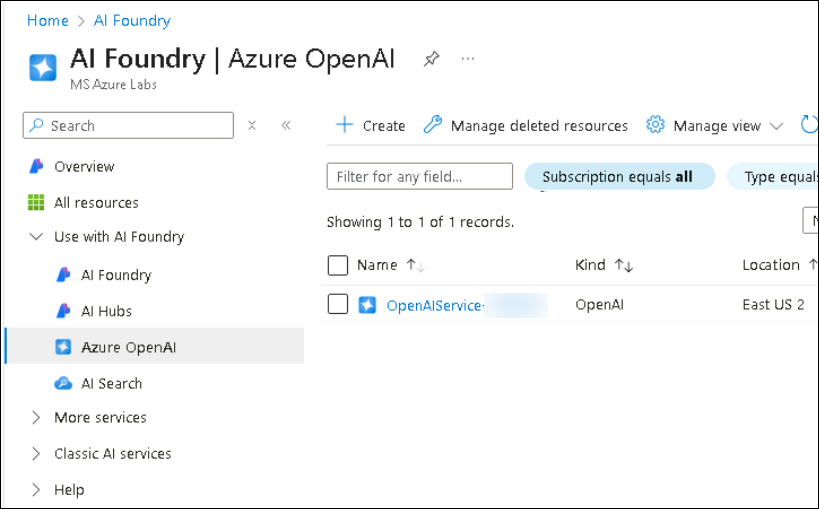
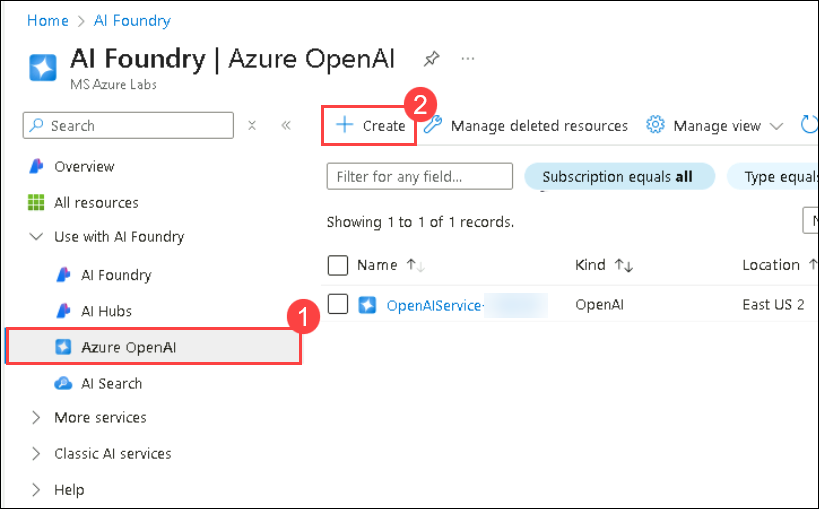
Update

Changed region(s): [[0.0, 0.5894, 0.3968, 0.7367], [0.3663, 0.1473, 0.5495, 0.2947]]

diff --git a/Instructions/Labs/prompt-eng-2.md b/Instructions/Labs/prompt-eng-2.md
@@ -26,9 +26,9 @@ In this task, you'll create an Azure resource in the Azure portal, selecting the
 
    ![](../media/17-12-24(1).png)
 
-2. On **Azure AI services | Azure OpenAI** blade, click on **+ Create**.
+2. On **AI Foundry | Azure OpenAI** blade, click on **+ Create**.
 
-   ![](../media/create-openai.png)
+   ![](../media/lab-03upd1.png)
 
 3. Create an **Azure OpenAI** resource with the following settings 
 
@@ -78,7 +78,7 @@ In this task, you'll deploy a specific AI model instance within your Azure OpenA
 
    ![](../media/17-12-24(1).png)
 
-2. On **Azure AI services | Azure OpenAI** blade, select **OpenAI-Lab03-<inject key="Deployment-ID" enableCopy="false"></inject>**
+2. On **AI Foundry | Azure OpenAI** blade, select **OpenAI-Lab03-<inject key="Deployment-ID" enableCopy="false"></inject>**
 
    ![](../media/lab-03.png)
 

diff --git a/Instructions/Labs/prompt-eng-2-vscode.md b/Instructions/Labs/prompt-eng-2-vscode.md
@@ -26,7 +26,7 @@ In this task, you'll create an Azure resource in the Azure portal, selecting the
 
    ![](../media/17-12-24(1).png)
 
-2. On **Azure AI foundry | Azure OpenAI** blade, click on **+ Create**.
+2. On **AI Foundry | Azure OpenAI** blade, click on **+ Create**.
 
    ![](../media/lab-03upd1.png)
 
@@ -78,7 +78,7 @@ In this task, you'll deploy a specific AI model instance within your Azure OpenA
 
    ![](../media/17-12-24(1).png)
 
-2. On **Azure AI foundry | Azure OpenAI** blade, select **OpenAI-Lab03-<inject key="Deployment-ID" enableCopy="false"></inject>**
+2. On **AI Foundry | Azure OpenAI** blade, select **OpenAI-Lab03-<inject key="Deployment-ID" enableCopy="false"></inject>**
 
    ![](../media/lab-03upd2.png)
 
